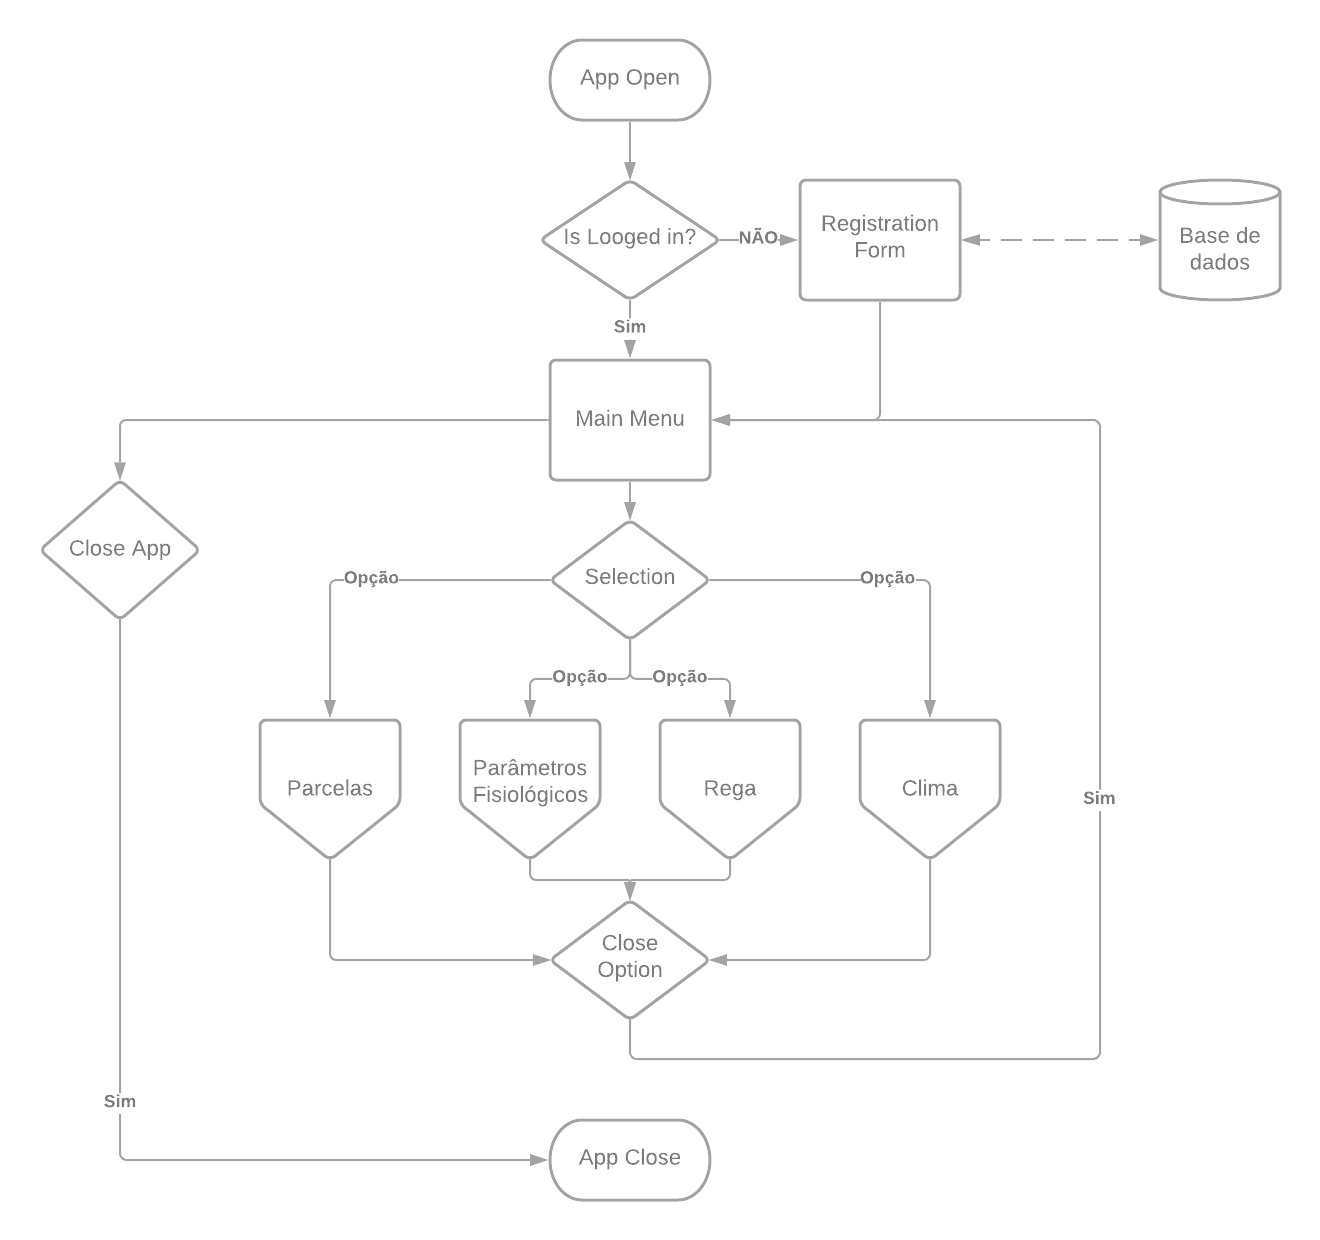
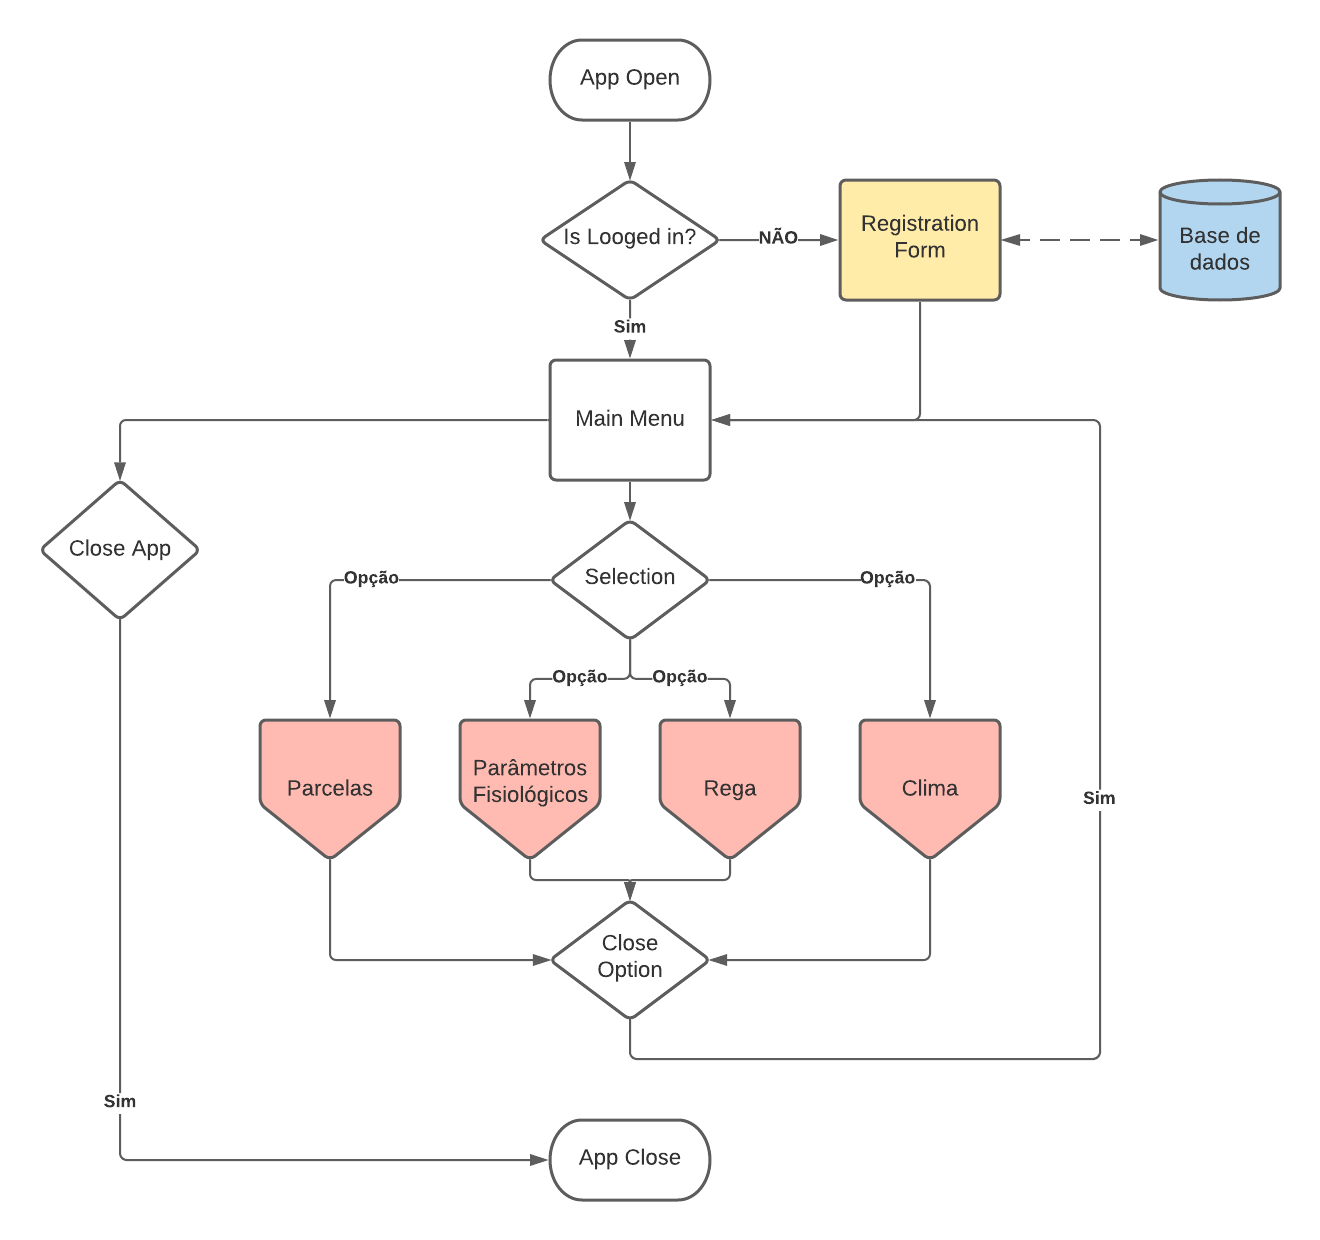
Change

diff --git a/docs/results.md b/docs/results.md
@@ -1,6 +1,32 @@
 # Resultados
 
-[Imgur](https://i.imgur.com/0iHwKNd.png)
+De acordo com o desenho da plataforma proposta foi desenvolvido um fluxograma para uma aplicação que se propõe responder a todos os requisitos propostos.
+
+Na seguinte figura podemos observar o fluxograma do menu principal, composto por quatro opções: Dados da parcela; Parâmetros fisiológicos; Rega e Clima.
+
+![Fluxograma da Visão Geral](https://i.imgur.com/F48kZtI.png)
+
+Para as quatro opçoes apresentadas foram desenvolvidos icons para facilitar a navegação.
+
+| Parcelas | Parâmetros Fisiológicos | Rega | Clima |
+| --- | --- | --- | --- |
+|![Imgur](https://i.imgur.com/9iwJw8O.png) | ![Imgur](https://i.imgur.com/BY573dO.png) | ![Imgur](https://i.imgur.com/VNQdXyr.png) | ![Imgur](https://i.imgur.com/1zOy7sJ.png) |
+
+Na opção 'Parcela' o utilizador seleciona o nome da parcela (de entre as parcelas existentes da base de dados) e é disponibilizada toda a informação sobre essa parcela e é mostrado o mapa dessa parcela (utilizando, por exemplo, o [Mango](https://mangomap.com/)). O admnistrador poderá editar esta informação.
+
+![Fluxograma Parcela](https://i.imgur.com/O2v1Vbd.png)
+
+Na opção 'Parâmetros Fisiolõgicos' é sobreposto na vista aérea da propriedade uma das opções selecionadas: NDVI (), ou o estado hídrico das plantas obitido através do modelo do [desafio 1](https://hackathondouroporto2021-01.readthedocs.io/). Neste último caso quanto melhor for a difinção espacial do modelo, melhor a definição da imagem a sobrepor. 
+
+![Fluxograma Parâmetros Fisiológicos](https://i.imgur.com/DF9G38D.png)
+
+Relativamente à opção 'Rega', podemos dividi-la em duas partes: apresentação/comparação das necessidades de rega (incluí a precepitação e dados dos sensor de humidade do solo), podendo ser comparadas com os dados dos últimos 7 dias desse ano ou de anos anteriores; e dados do autómato de rega.  Para esta última parte será necessário selecionar qual o autómato de rega utilizado (na base de dados existirão todos os modelos utilizados na região). Com esta selecção fica pré-definido qual o protocolo a utilizar para comunição com o autómato de rega. Em função de toda essa informação, é disponibilizada informação sobre cada setor e dada a possibiliade de controlar ON/OF esse setores (esta possibilidade só está disponível a utilizadores autorizados). Se o sistema estiver em modo automático ([desadio 2](https://hackathondouroporto2021-02.readthedocs.io/)) os botões ON/OF de cada setor mostram o estado das electroválvulas. 
+
+![Fluxograma Rega](https://i.imgur.com/Zfy71a2.png)
+
+![Fluxograma Clima](https://i.imgur.com/ziHtLmI.png)
+
+&nbsp;
 
 
 <iframe style="border: 1px solid rgba(0, 0, 0, 0.1);" width="800" height="450" src="https://www.figma.com/embed?embed_host=share&url=https%3A%2F%2Fwww.figma.com%2Fproto%2FDSG2WGqZGj0TvUzwA75JST%2FLayer1%3Fpage-id%3D0%253A1%26node-id%3D2%253A3%26viewport%3D241%252C48%252C0.5%26scaling%3Dscale-down%26starting-point-node-id%3D2%253A3" allowfullscreen></iframe>
